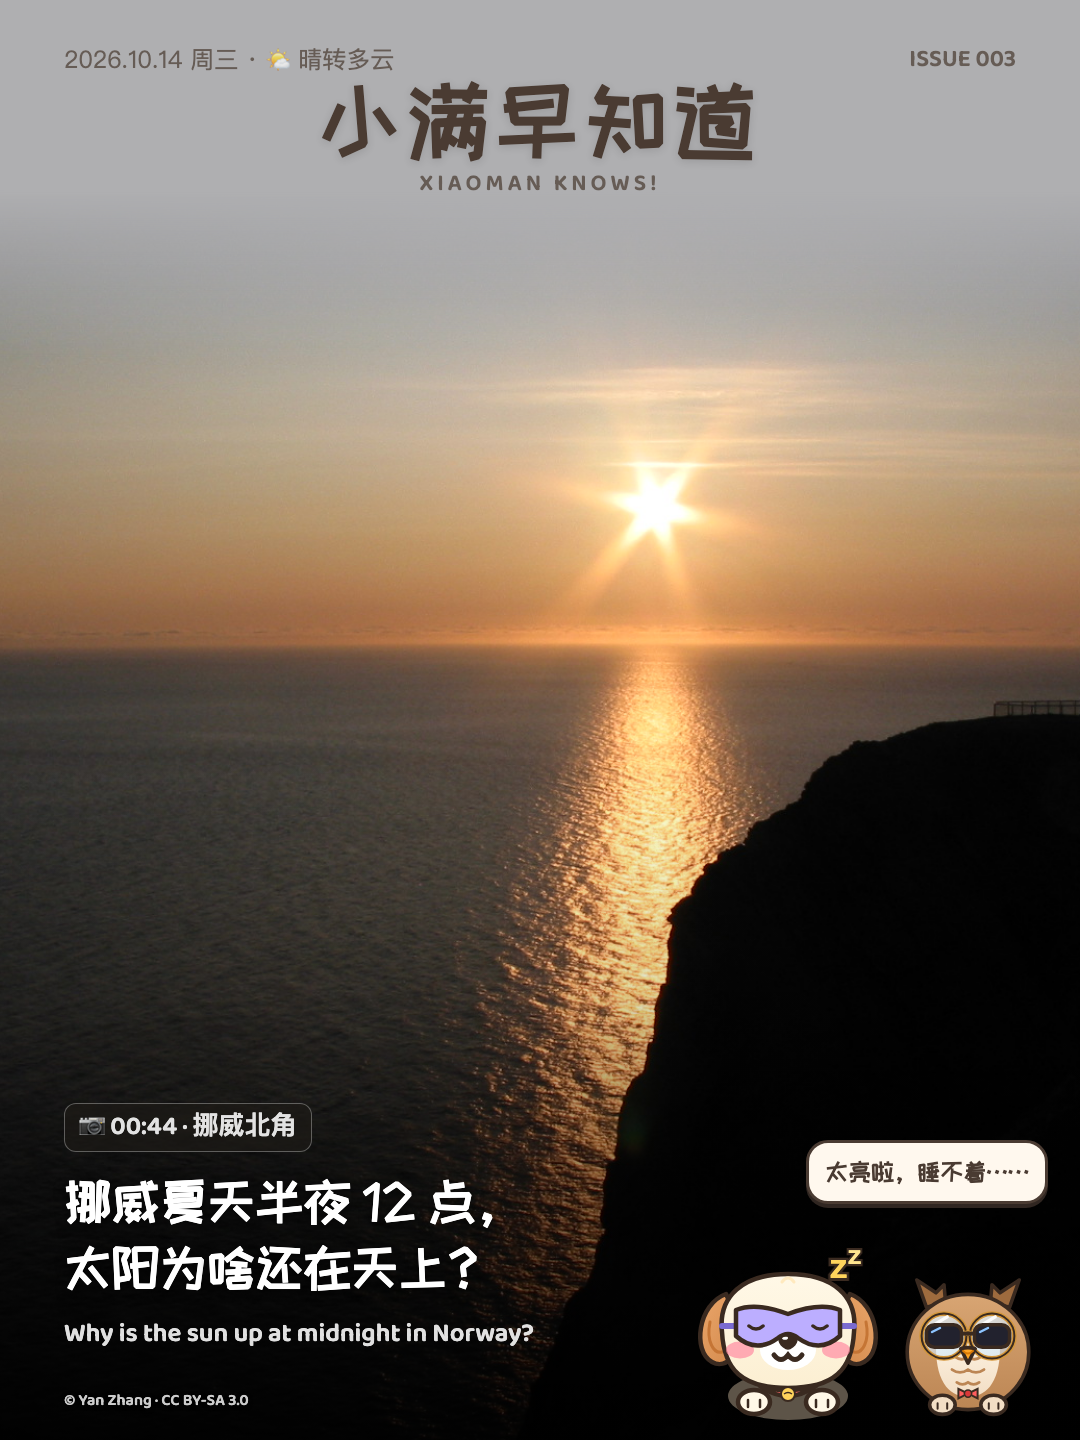
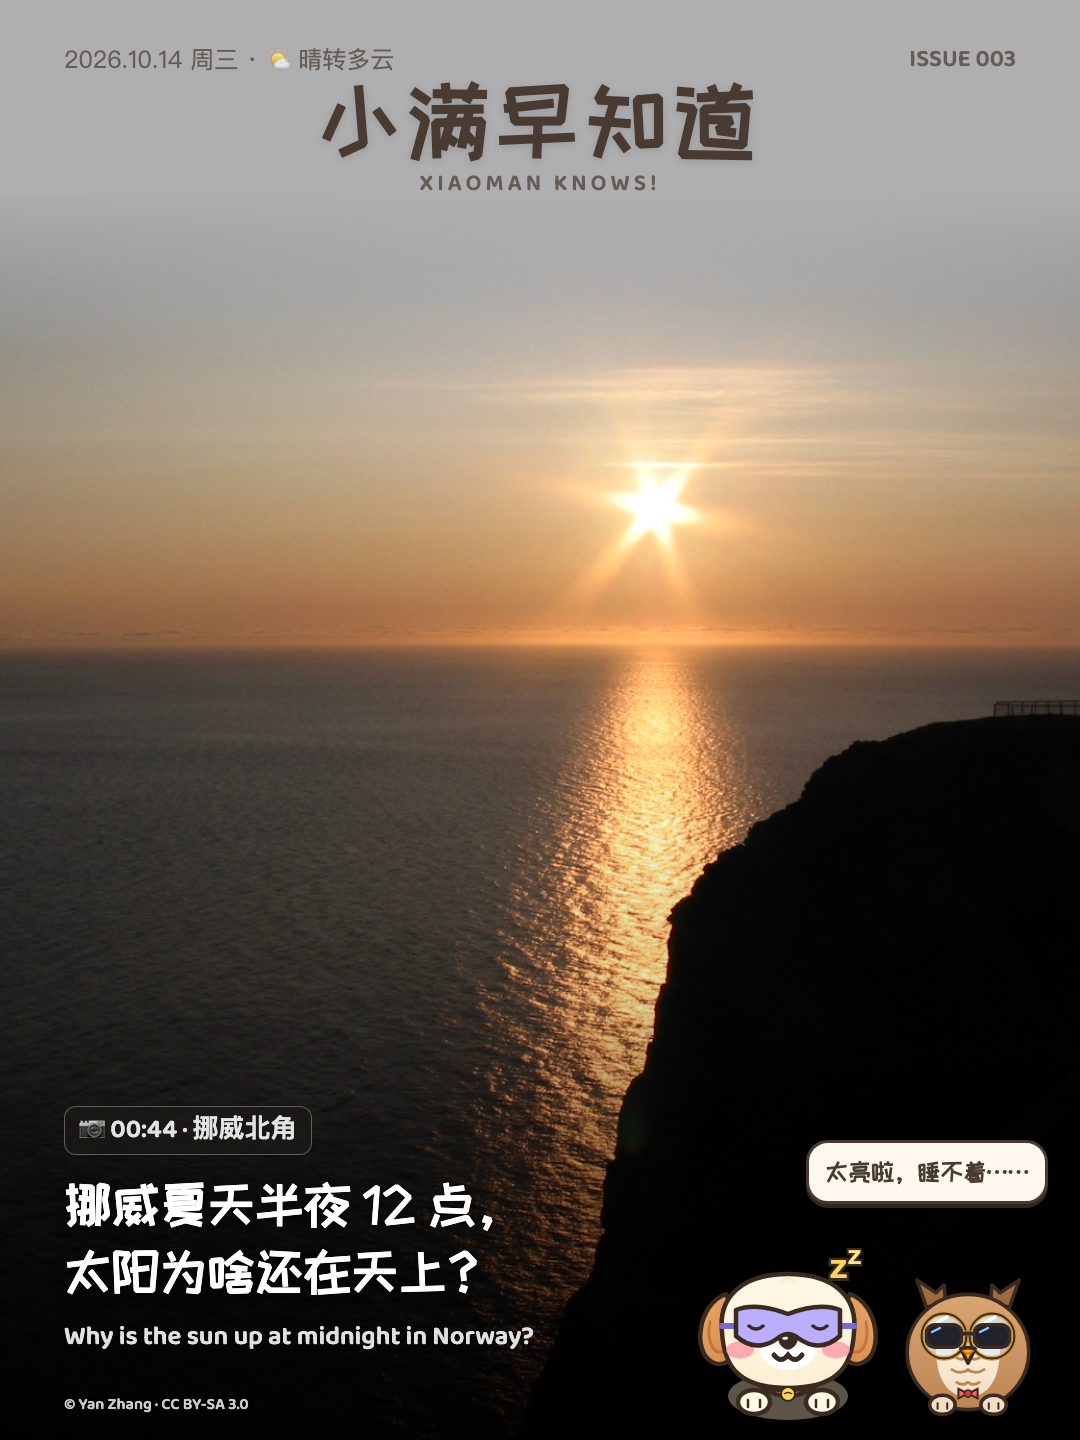
fix(cover): constrain photo credits to the question column

Changed region(s): [[0.0611, 0.75, 0.4889, 0.9375], [0.0611, 0.9688, 0.2444, 1.0]]

diff --git a/assets/style.css b/assets/style.css
@@ -314,9 +314,9 @@ svg.ch{display:block}
 #c1.photo-cover .mast .en{font-size:23px;letter-spacing:4px;margin-top:0;color:var(--mast-sub)}
 #c1.photo-cover,#c1.photo-cover.light{--mast-ink:var(--ink);--mast-sub:rgba(74,59,50,.72);--mast-shadow:rgba(255,255,255,.65)}
 #c1.photo-cover.dark{--mast-ink:#fff;--mast-sub:rgba(255,255,255,.88);--mast-shadow:var(--ink)}
-#c1.photo-cover .cover-bottom{position:absolute;left:64px;right:32px;bottom:24px;display:grid;grid-template-columns:minmax(0,1fr);align-items:end;gap:24px}
+#c1.photo-cover .cover-bottom{position:absolute;left:64px;right:32px;bottom:24px;display:grid;grid-template-columns:minmax(0,1fr);align-items:end;column-gap:24px;row-gap:40px}
 #c1.photo-cover .cover-bottom.has-crew{grid-template-columns:minmax(0,1fr) max-content}
-#c1.photo-cover .q{margin:0;padding:0 0 64px;min-width:0}
+#c1.photo-cover .q{grid-column:1;grid-row:1;margin:0;padding:0;min-width:0}
 #c1.photo-cover .cover-labels{display:flex;flex-wrap:wrap;align-items:flex-start;gap:12px;margin-bottom:16px}
 #c1.photo-cover .cover-labels:empty{display:none}
 #c1.photo-cover .stamp{display:inline-block;padding:6px 14px;border:1px solid rgba(255,255,255,.35);border-radius:12px;background:rgba(30,27,23,.7);color:#FFE3A8;font-size:28px;line-height:1.3}
@@ -324,12 +324,12 @@ svg.ch{display:block}
 #c1.photo-cover .q .t{font-size:52px;line-height:1.28;text-shadow:0 2px 12px rgba(0,0,0,.6)}
 #c1.photo-cover .cover-word{display:inline-block;white-space:nowrap}
 #c1.photo-cover .q .en{font-size:26px;line-height:1.35;color:#fff;opacity:.88;margin-top:16px}
-#c1.photo-cover .crew{display:flex;flex-direction:column;align-items:flex-end;gap:12px;min-width:0}
+#c1.photo-cover .crew{grid-column:2;grid-row:1 / span 2;display:flex;flex-direction:column;align-items:flex-end;gap:12px;min-width:0}
 #c1.photo-cover .crew .chs{display:flex;align-items:flex-end;justify-content:flex-end;gap:0;width:max-content}
 #c1.photo-cover .crew .ch{flex-shrink:0}
 #c1.photo-cover .crew .bub{color:var(--ink);text-shadow:none;width:max-content;margin:0;font-size:25px;line-height:1.35;padding:12px 16px;border-width:3px;border-radius:22px;background:#FFF8EE;text-align:center;white-space:nowrap;box-shadow:0 4px 0 rgba(74,59,50,.65)}
 #c1.photo-cover .crew .bub:after{display:none}
-#c1.photo-cover .credit{position:absolute;left:64px;right:64px;bottom:28px;margin:0;font-size:16px;line-height:1.3;color:rgba(255,255,255,.8);text-shadow:0 1px 4px #000}
+#c1.photo-cover .credit{grid-column:1;grid-row:2;position:relative;min-width:0;overflow-wrap:anywhere;margin:0;font-size:16px;line-height:1.3;color:rgba(255,255,255,.8);text-shadow:0 1px 4px #000}
 
 /* news card */
 #cnews{background:#E8F1FF}

diff --git a/assets/template.html b/assets/template.html
@@ -53,8 +53,8 @@ if (CV && CV.photo) cards.push(`<section class="card photo-cover" id="c1"${CV.st
     <div class="q"><div class="cover-labels">${CV.stamp ? `<span class="stamp en">${CV.stamp}</span>` : ""}${CV.asked_by ? `<span class="asked fun">💡 本期问题由${CV.asked_by}提出</span>` : ""}</div>
       <div class="t fun">${coverQuestion(D.question.zh)}</div><div class="en">${D.question.en}</div></div>
     ${CV.crew?.length ? `<div class="crew">${CV.crew_say ? `<div class="bub fun">${CV.crew_say}</div>` : ""}<div class="chs">${CV.crew.map(ch).join("")}</div></div>` : ""}
-  </div>
-  <div class="credit en">${CV.credit}</div></section>`);
+    <div class="credit en">${CV.credit}</div>
+  </div></section>`);
 else cards.push(`<section class="card" id="c1"><div class="dots"></div>
   <div class="top"><span>${D.date} · ${D.weather}</span><span class="en">ISSUE ${N}</span></div>
   <div class="mast"><div class="zh fun">${D.masthead.zh}</div><div class="en">${D.masthead.en}</div></div>
